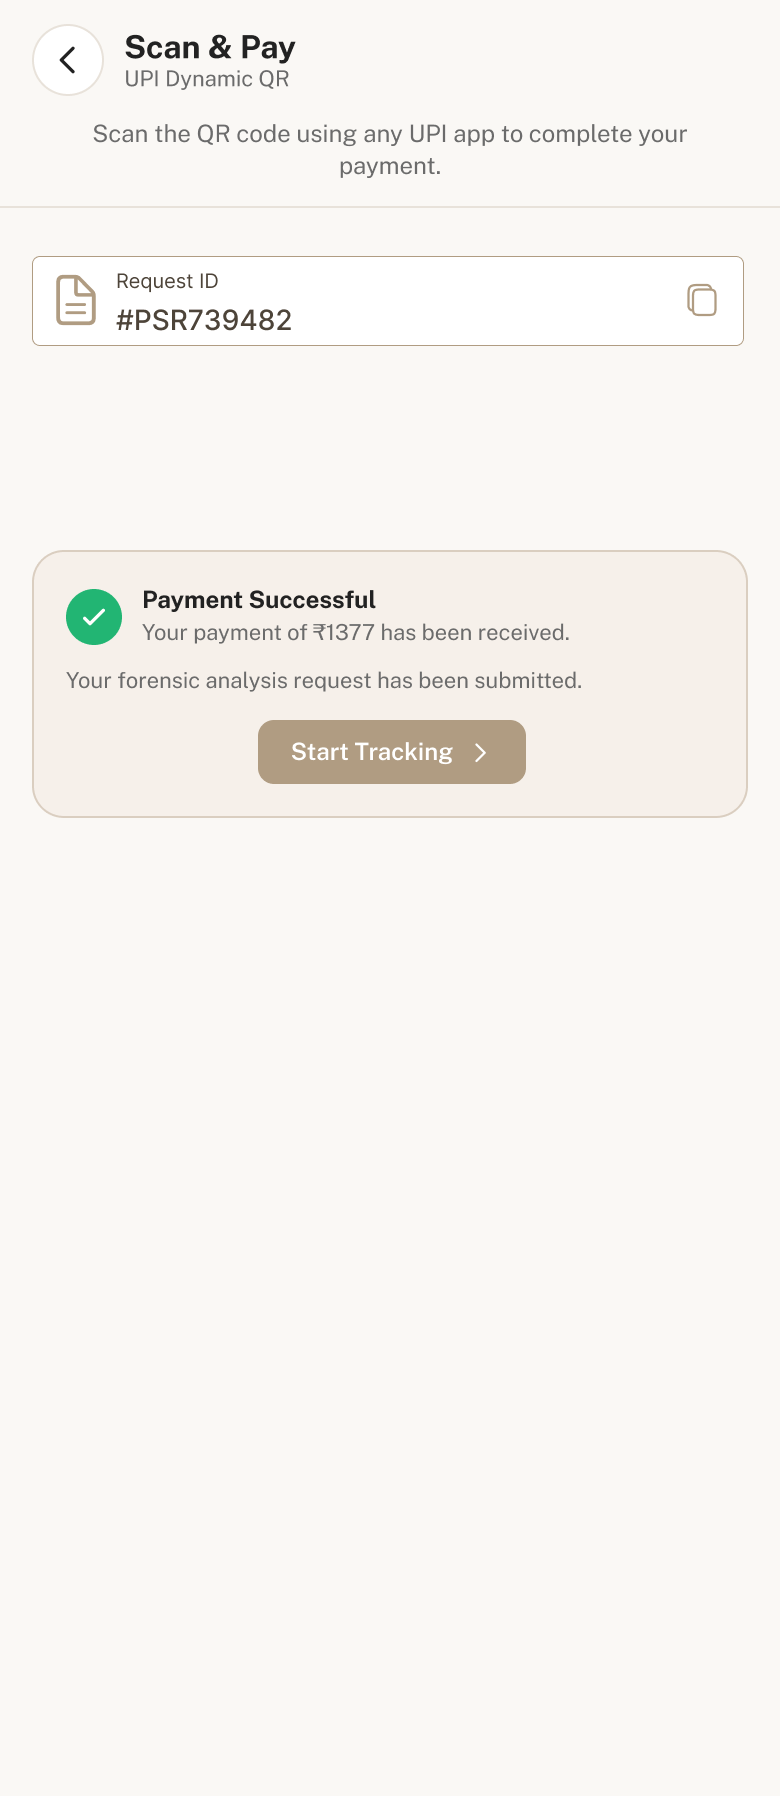
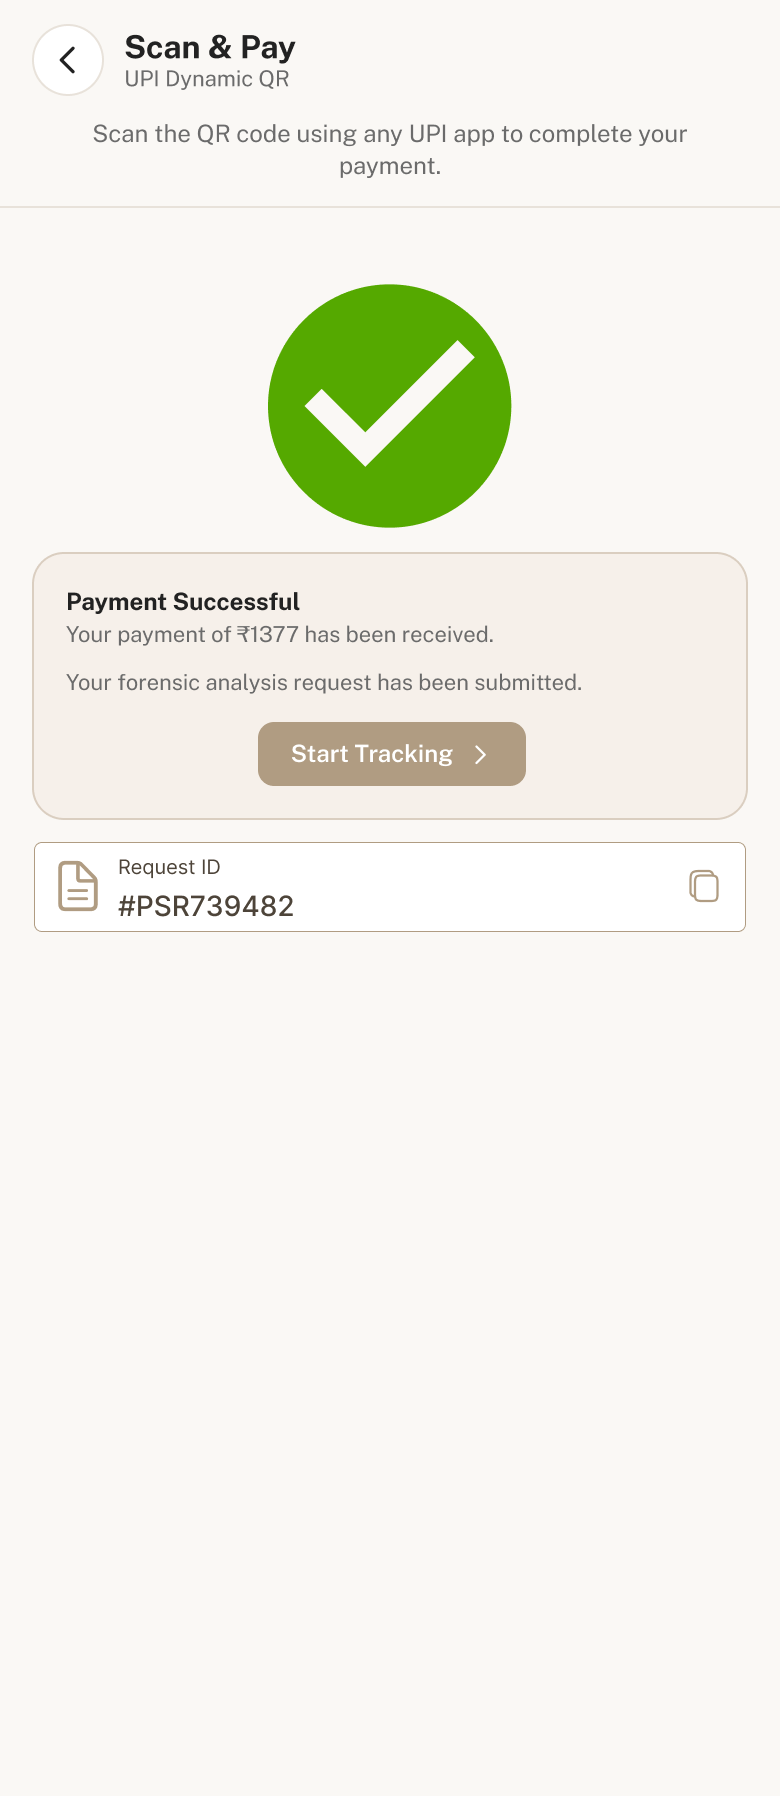
payment success: replacement design/298 for the service-fee caller
Replaces design/298; the old export moves to
design/archive/298-hcr-payment-success.png.

The new layout is a 121pt green disc on top, no small tick beside the
title, and the Request ID card moved below the payment card. It is a
`hero` variant of the shared PaymentSuccessScreen. Following the
client's split-by-caller decision, only the service-fee caller uses it
(/services/high-court/payment; the District Court intake's payment
follows). The court-fee (317), pending-case (333) and process-fee (324)
exports were re-issued unchanged, so those callers keep the old layout.
The disc colour #55A900 is quarantined.

While rebuilding the shared card, its type ran a median 9% large
against every export that draws it (279, 298, 309, the replacement
298), a leftover of the 2.1231 px/pt assumption. Re-measured at 2.000:
title, body, button, ref label and value, card padding and gaps.
Median text width, render ÷ design, is now 1.002 on 279, 317, 324 and
the replacement 298. Every line is within 2.5pt.

Pixel diff, before → after, at 390×898@2x:
  /services/high-court/payment?step=done             5.9% (new layout)
  court-fee, process-fee, change-advocate, pending   1.9% each (type)
  /courier/success, /courier/success?flow=hcr        1.9% each (type)

diff --git a/components/PaymentSuccessScreen.tsx b/components/PaymentSuccessScreen.tsx
@@ -22,6 +22,12 @@ import { courierSuccess as t, font, ink, status } from '../constants/theme';
 //  · "Your forensic analysis request has been submitted" — DOCUMENT FORENSIC
 //    copy, on courier, court-fee, process-fee and High Court payments.
 //
+// The REPLACEMENT design/298 (the service-fee success, after design/296) is the
+// `hero` layout: a large green disc on top, no small tick, and the Request ID
+// card moved below the payment card. The old 298 layout is still drawn — and
+// still built — for the court-fee (317), pending-case (333) and process-fee
+// (324) successes, whose own exports were re-issued unchanged.
+//
 // Reused: components/PayHeader, the same header designs 28, 29 and 30 draw.
 //
 // STATIC, NOT WIRED: nothing was paid. The button advances.
@@ -31,36 +37,49 @@ export default function PaymentSuccessScreen({
   d,
   ctaHref,
   tick = false,
+  hero = false,
 }: {
   d: PaymentSuccessCopy;
   /** Where the card's button goes. */
   ctaHref: Href;
   /** design/298 draws a green tick beside the title; 279 and 309 draw none. */
   tick?: boolean;
+  /** The replacement design/298: a large disc on top, Request ID card below. */
+  hero?: boolean;
 }) {
+  const ref = (
+    <View style={[styles.ref, hero && styles.refBelow]}>
+      <View style={styles.refTile}>
+        <FileText size={t.refTileGlyph} color={t.refBorder} strokeWidth={2} />
+      </View>
+      <View style={styles.flex}>
+        <Text style={styles.refLabel} {...shrinkToFit(0.8)}>
+          {d.refLabel}
+        </Text>
+        <Text style={styles.refValue} {...shrinkToFit(0.8)}>
+          {d.refValue}
+        </Text>
+      </View>
+      <Copy size={t.copyGlyph} color={t.bodyInk} strokeWidth={2} />
+    </View>
+  );
+
   return (
     <View style={styles.screen}>
       <PayHeader padX={t.padX} title={d.title} subtitle={d.subtitle} intro={d.intro} />
 
       <ScrollView contentContainerStyle={styles.content} showsVerticalScrollIndicator={false}>
-        <View style={styles.ref}>
-          <View style={styles.refTile}>
-            <FileText size={t.refTileGlyph} color={t.refBorder} strokeWidth={2} />
+        {hero ? (
+          <View style={styles.hero}>
+            <Check size={t.heroGlyph} color={ink.onBrand} strokeWidth={3.2} />
           </View>
-          <View style={styles.flex}>
-            <Text style={styles.refLabel} {...shrinkToFit(0.8)}>
-              {d.refLabel}
-            </Text>
-            <Text style={styles.refValue} {...shrinkToFit(0.8)}>
-              {d.refValue}
-            </Text>
-          </View>
-          <Copy size={t.copyGlyph} color={t.bodyInk} strokeWidth={2} />
-        </View>
+        ) : (
+          ref
+        )}
 
-        <View style={styles.card}>
+        <View style={[styles.card, hero && styles.cardBelowHero]}>
           <View style={styles.head}>
-            {tick && (
+            {tick && !hero && (
               <View style={styles.tick}>
                 <Check size={t.tickGlyph} color={ink.onBrand} strokeWidth={3} />
               </View>
@@ -85,6 +104,7 @@ export default function PaymentSuccessScreen({
             <ChevronRight size={t.btnGlyph} color={ink.onBrand} strokeWidth={2.4} />
           </Pressable>
         </View>
+        {hero && ref}
       </ScrollView>
     </View>
   );
@@ -108,6 +128,18 @@ const styles = StyleSheet.create({
     flexDirection: 'row',
     alignItems: 'center',
   },
+  refBelow: { marginTop: t.heroRefTop },
+  hero: {
+    marginTop: t.heroTop,
+    alignSelf: 'center',
+    width: t.hero,
+    height: t.hero,
+    borderRadius: t.hero / 2,
+    backgroundColor: t.heroGreen,
+    alignItems: 'center',
+    justifyContent: 'center',
+  },
+  cardBelowHero: { marginTop: t.heroCardTop },
   refTile: { width: t.refTile, alignItems: 'center', marginRight: t.refGap },
   refLabel: { fontFamily: font.appBody, fontSize: t.refLabelSize, color: t.inkMuted },
   refValue: {

diff --git a/components/CourtPaymentFlow.tsx b/components/CourtPaymentFlow.tsx
@@ -28,6 +28,11 @@ import { HC_PAYMENT, HC_SCAN_PAY, HC_SUCCESS } from '../data/highCourt';
 // and the "Waiting for payment…" spinner, which polls nothing. As in the Legal
 // Notice flow the Scan & Pay step moves on to success after a pause.
 //
+// ⚠ SPLIT BY CALLER (client instruction, 14 Oct). The re-issued exports draw
+// the service-fee success (design/298) with a new layout — `hero` — while the
+// court-fee (317) and pending-case (333) successes were re-issued unchanged.
+// Only the service-fee callers pass `hero`.
+//
 // The three steps share one route per caller, selected by ?step=; the caller's
 // route passes `next` (where the success button goes) and `receipt` (324's
 // "View Receipt" label) through the query.
@@ -37,6 +42,7 @@ export default function CourtPaymentFlow({
   base,
   next,
   receipt = false,
+  hero = false,
   backHref,
 }: {
   /** This caller's payment route, e.g. /services/high-court/payment. */
@@ -45,6 +51,8 @@ export default function CourtPaymentFlow({
   next: string;
   /** design/324: the success button reads "View Receipt". */
   receipt?: boolean;
+  /** The replacement design/298 success layout — the service-fee caller only. */
+  hero?: boolean;
   backHref: string;
 }) {
   const { step } = useLocalSearchParams<{ step?: string }>();
@@ -61,7 +69,7 @@ export default function CourtPaymentFlow({
   }
   if (step === 'done') {
     const d = receipt ? { ...HC_SUCCESS, cta: HC_SUCCESS.ctaReceipt } : HC_SUCCESS;
-    return <PaymentSuccessScreen d={d} ctaHref={next as Href} tick />;
+    return <PaymentSuccessScreen d={d} ctaHref={next as Href} tick hero={hero} />;
   }
   return <CompletePaymentScreen d={HC_PAYMENT} payHref={`${base}?step=scan` as Href} backHref={backHref as Href} />;
 }

diff --git a/constants/tokens/courier.ts b/constants/tokens/courier.ts
@@ -463,32 +463,46 @@ export const courierSuccess = {
   refTile: 28,
   refTileGlyph: 18,
   refGap: 11,
-  refLabelSize: 10.5,
+  refLabelSize: 10.2,
   refValueTop: 2,
-  refValueSize: 15,
+  refValueSize: 13.4,
   copyGlyph: 17,
 
-  // Payment card 280.5–403.5pt.
-  cardTop: 107,
+  // Payment card 276–408pt. ⚠ Type re-measured 14 Oct against 279, 298, 309 and
+  // the replacement 298 — all 780px exports at 2.000 px/pt. The earlier sizes
+  // ran a median 9% large (title 12.5%), from the 2.1231 px/pt assumption.
+  cardTop: 103,
   cardRadius: 12,
   cardBg: '#F6F0EA',
   cardBorder: '#DACEC0',
   cardPadX: 17,
-  cardPadTop: 12,
-  cardPadBottom: 14,
-  titleSize: 13.5,
-  bodyTop: 0.5,
-  bodySize: 12,
-  bodyGap: 10,
+  cardPadTop: 15.5,
+  cardPadBottom: 16.5,
+  titleSize: 11.9,
+  bodyTop: 5,
+  bodySize: 11,
+  bodyGap: 9,
   btnTop: 13,
   btnH: 31.5,
   btnW: 134,
   btnRadius: 9,
   btnBg: '#B09C82',
-  btnSize: 12.5,
+  btnSize: 11.7,
   btnGlyph: 15,
   btnGap: 7,
   bottomPad: 40,
+
+  // ── The replacement design/298 (the SERVICE-FEE success only) ─────────────
+  // A 121pt green disc 142.5–263.5pt, card 276–409.5, Request ID card moved
+  // below it at 421–466. Measured at 2.000 px/pt.
+  heroTop: 38.5,
+  hero: 121,
+  heroGlyph: 64,
+  heroCardTop: 12.5,
+  heroRefTop: 11.5,
+  /** ⚠ QUARANTINED — the disc is a flat #55A900, not status.active (#21B474)
+   *  nor advFirGreen. Sampled from the replacement design/298. */
+  heroGreen: '#55A900',
 };
 
 /**

diff --git a/app/services/high-court/payment.tsx b/app/services/high-court/payment.tsx
@@ -2,6 +2,7 @@ import CourtPaymentFlow from '../../../components/CourtPaymentFlow';
 
 // High Court — service fee payment (designs 296 → 297 → 298). The body is
 // components/CourtPaymentFlow; read its header for conflict 2 (₹40,680).
+// The success step is the REPLACEMENT design/298 (`hero`).
 //
 // ⚠ CROSS-SERVICE STEP: design/298's "Start Tracking" is followed, in the
 // design numbering, by design/299 — a DISTRICT COURT "Request Submitted"
@@ -13,6 +14,7 @@ export default function HighCourtPaymentScreen() {
       base="/services/high-court/payment"
       next="/services/district-court/request-submitted"
       backHref="/services/high-court/pricing"
+      hero
     />
   );
 }
